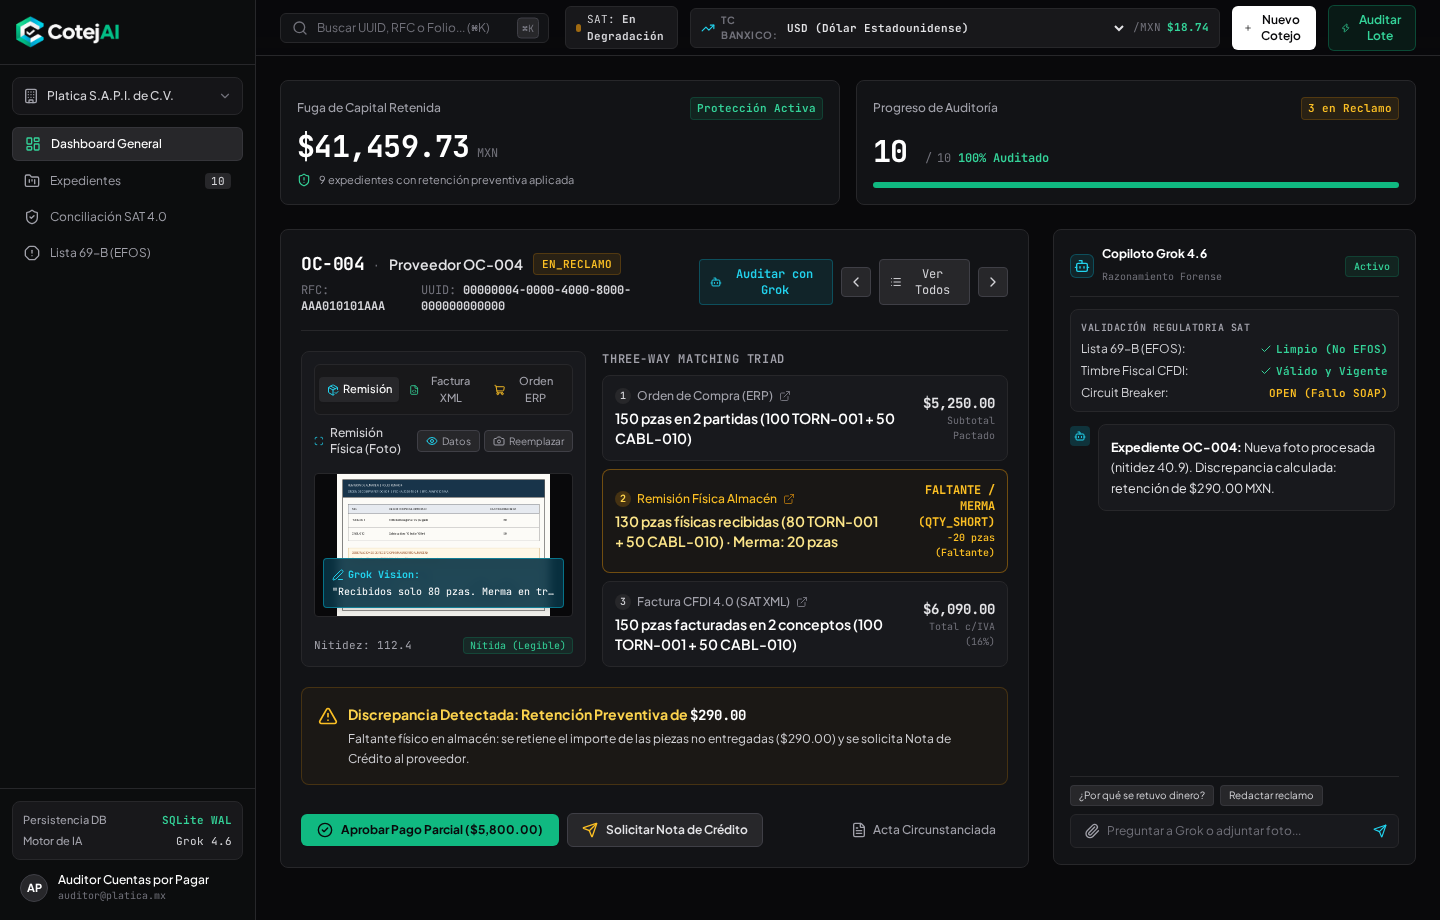
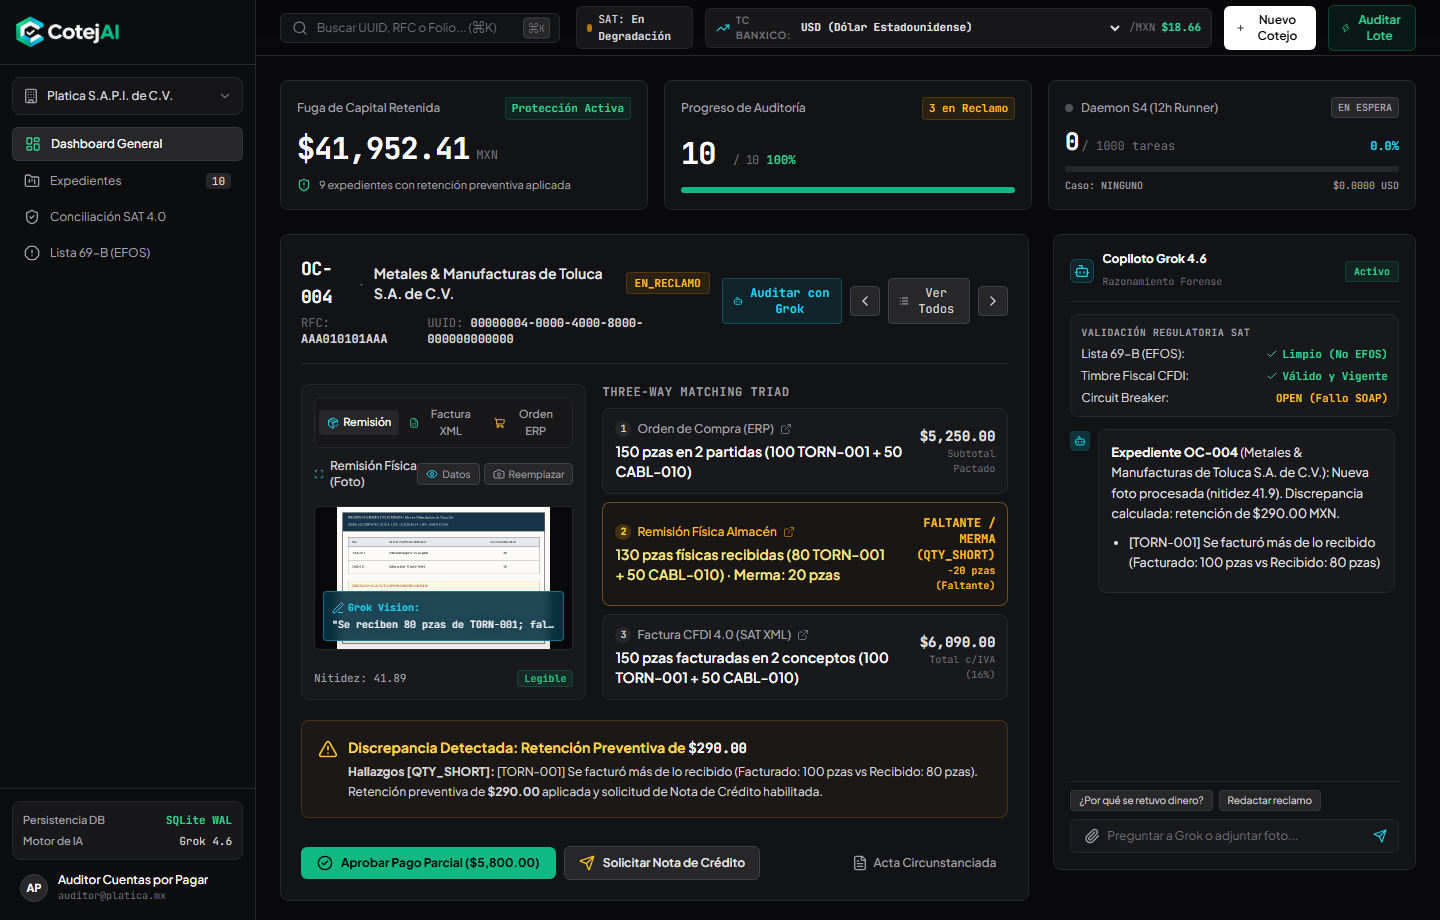
docs(readme): aclarar test omitido en clon limpio y enlazar el reporte final

diff --git a/README.md b/README.md
@@ -118,7 +118,7 @@ curl -X POST http://localhost:8000/api/v1/auditar -H "Content-Type: application/
 ### Pruebas y reproducción
 
 ```bash
-python -m pytest        # 82 pruebas, ~25 s
+python -m pytest        # 82 pruebas, ~25 s (en un clon limpio se omite 1 que requiere datasets/s4; genérelo con datasets/generate.py --s4)
 ```
 
 Para reproducir la evaluación: `python main.py audit --dir datasets/s3`. El dataset S4 se regenera idéntico con `python datasets/generate.py --s4`, y después `python main.py audit --dir datasets/s4`.
@@ -485,7 +485,7 @@ Videos de sprints anteriores:
 Para atender con máxima transparencia y detalle técnico cada observación del comité evaluador, se publicaron los siguientes documentos oficiales:
 
 1. **[Compendio Oficial: Notas de Entrega y Reportes Técnicos (S1 a S4)](docs/NOTAS_DE_ENTREGA_Y_REPORTES_TECNICOS_S1_S4.md):** Documento consolidado con la estructura oficial requerida (Qué se logró, Qué falló y cómo se solucionó, Telemetría y Costo por tarea) para cada una de las 4 semanas del reto.
-2. **[Reporte Técnico General en PDF (Google Drive)](https://drive.google.com/file/d/1rQduagkfqgl3EAuQ8Pq6AvGvsouCu5qp/view?usp=drivesdk):** Documento formal con diagramas de arquitectura, tablas de costos, capturas y justificación metodológica.
+2. **[Reporte Técnico Final (PDF, 2 páginas)](docs/Reporte_Tecnico_Final_CotejAI.pdf):** Reporte de la entrega final con las cifras auditadas. El [reporte de S2 en Google Drive](https://drive.google.com/file/d/1rQduagkfqgl3EAuQ8Pq6AvGvsouCu5qp/view?usp=drivesdk) se conserva como histórico.
 3. **[Auditoría de la bitácora S4 contra ground truth](eval/analisis_bitacora_s4.md):** Qué salió bien y qué falló en la corrida de 12 horas, la causa, la corrección y la validación posterior. Reemplaza a [`eval/reporte_s4.md`](eval/reporte_s4.md), que se generó antes de terminar la corrida.
 4. **[Bitácora Oficial de Carga Sprint 4 (JSONL)](runs/bitacora_s4.jsonl) y [CSV](runs/bitacora_s4.csv):** Registro atómico inmutable de cada tarea ejecutada con sus 18 campos de telemetría y resolución de discrepancias.
 5. **[Subsanación Explícita de Retroalimentaciones (S1 y S2)](docs/SUBSANACION_RETROALIMENTACION_S1_S2.md):** Documento técnico exhaustivo que detalla la respuesta a los hallazgos de datos sintéticos, cálculo agregado del ROI y desglose de las 10 corridas reales con Grok 4.6.
